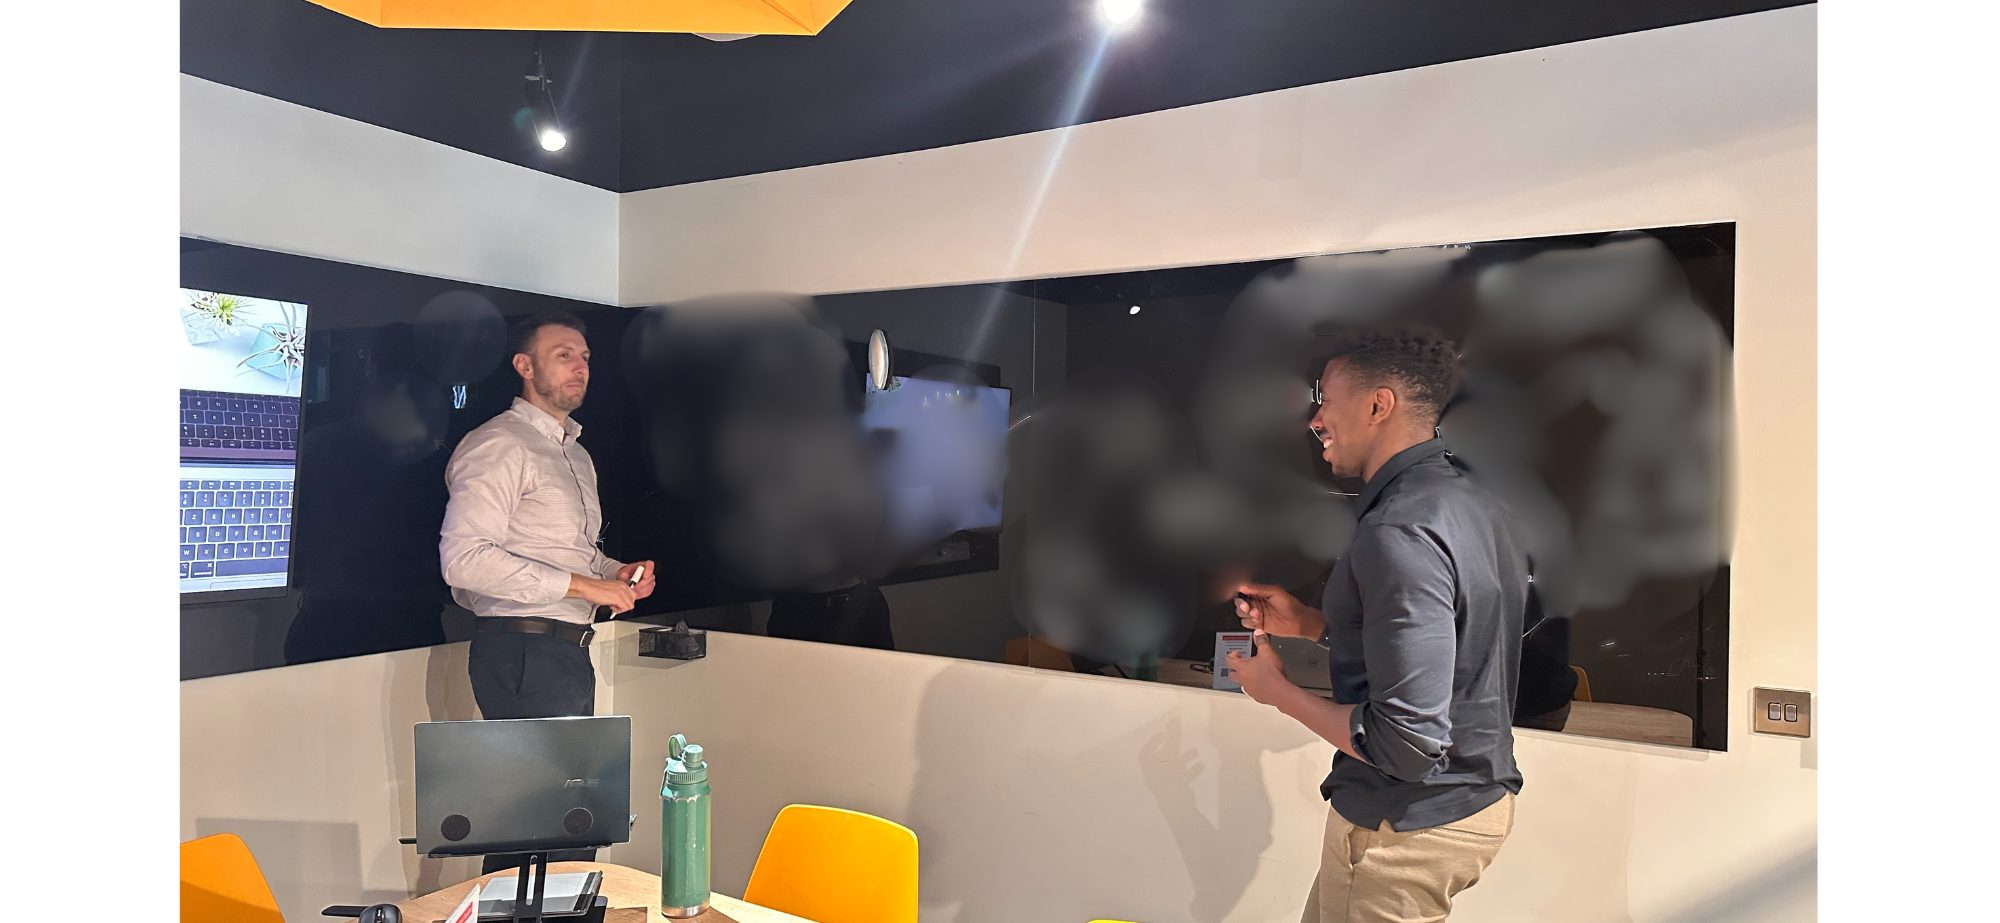
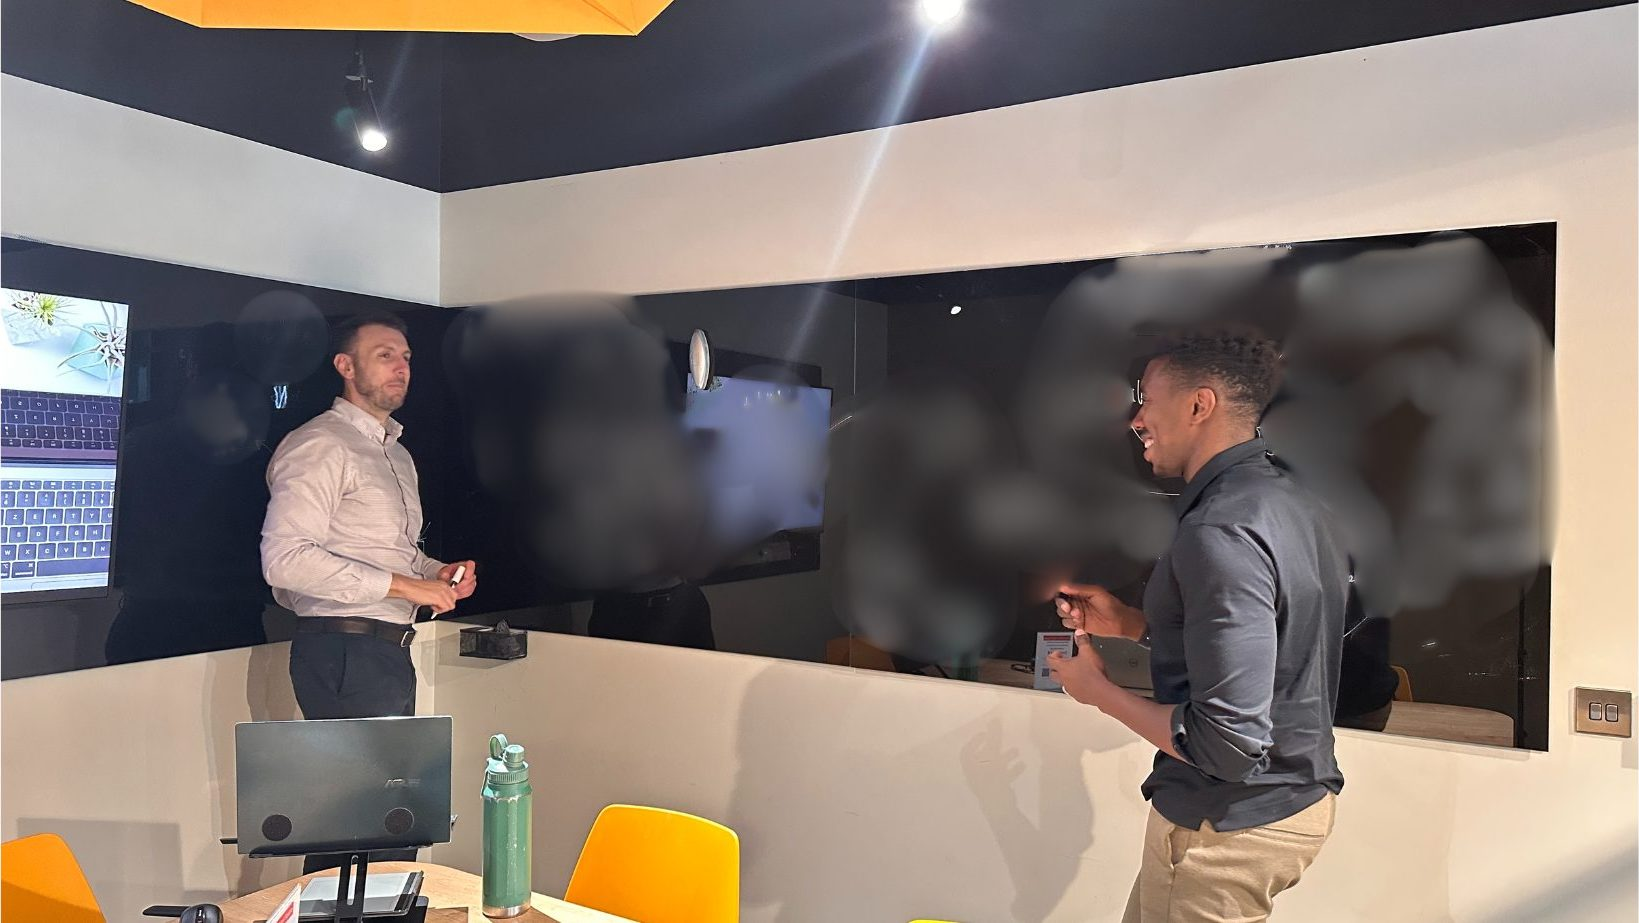
Crop white pillar-borders off new photos and revert containers to 16:9
img-1985…1989 arrived as 2000x923 files that were actually 16:9 photos
padded with ~180px of white pillarboxing left and right. Detect and
crop the white per-image (sampling 5 vertical lines for robustness),
re-encode at q82. Output sizes 1639-1642x923, within 0.12% of 16:9.

Revert the .scene-split .split-image containers on about, going-further,
buildstrong, teamstrong and the in-practice .scene-hero .hero-image
(desktop + mobile) from 2000/923 back to 16/9 to match.

teamstrong's .scene-feature-hero .feature-image (still img-1981, the
genuine 2.17:1 shot) keeps its 2000/923 ratio — unaffected.

diff --git a/in-practice.html b/in-practice.html
@@ -105,11 +105,11 @@
   }
   .image-placeholder::before { content: 'Image: '; opacity: 0.6; margin-right: 0.4em; }
 
-  /* ══ Hero — img-1988.jpg native 2000x923 (landscape) ══ */
+  /* ══ Hero — img-1988.jpg native 16:9 (landscape) ══ */
   .scene-hero { padding: 7vh 0 0; flex-direction: column; min-height: auto; }
   .scene-hero .hero-image {
     position: relative; width: 100%;
-    aspect-ratio: 2000/923; max-height: 80vh;
+    aspect-ratio: 16/9; max-height: 80vh;
     overflow: hidden; background: var(--bg-3);
   }
   .scene-hero .hero-image img { width: 100%; height: 100%; object-fit: cover; }
@@ -360,7 +360,7 @@
     nav.top .has-dropdown > a::after { display: none; }
     nav.top .dropdown { display: none; }
 
-    .scene-hero .hero-image { aspect-ratio: 2000/923; max-height: 50vh; }
+    .scene-hero .hero-image { aspect-ratio: 16/9; max-height: 50vh; }
 
     .people-grid { grid-template-columns: 1fr; }
 

diff --git a/site/in-practice.html b/site/in-practice.html
@@ -105,11 +105,11 @@
   }
   .image-placeholder::before { content: 'Image: '; opacity: 0.6; margin-right: 0.4em; }
 
-  /* ══ Hero — img-1988.jpg native 2000x923 (landscape) ══ */
+  /* ══ Hero — img-1988.jpg native 16:9 (landscape) ══ */
   .scene-hero { padding: 7vh 0 0; flex-direction: column; min-height: auto; }
   .scene-hero .hero-image {
     position: relative; width: 100%;
-    aspect-ratio: 2000/923; max-height: 80vh;
+    aspect-ratio: 16/9; max-height: 80vh;
     overflow: hidden; background: var(--bg-3);
   }
   .scene-hero .hero-image img { width: 100%; height: 100%; object-fit: cover; }
@@ -360,7 +360,7 @@
     nav.top .has-dropdown > a::after { display: none; }
     nav.top .dropdown { display: none; }
 
-    .scene-hero .hero-image { aspect-ratio: 2000/923; max-height: 50vh; }
+    .scene-hero .hero-image { aspect-ratio: 16/9; max-height: 50vh; }
 
     .people-grid { grid-template-columns: 1fr; }
 

diff --git a/buildstrong.html b/buildstrong.html
@@ -182,9 +182,9 @@
   }
   .scene-split .split-text .body p { margin-bottom: 1.2rem; }
   .scene-split .split-text .body em { color: var(--cognac); font-style: italic; font-weight: 400; }
-  /* img-1989.jpg native 2000x923 (landscape) */
+  /* img-1989.jpg native 16:9 (landscape) */
   .scene-split .split-image {
-    width: 100%; aspect-ratio: 2000/923;
+    width: 100%; aspect-ratio: 16/9;
     background: var(--bg-3); position: relative; overflow: hidden;
   }
   .scene-split .split-image img {

diff --git a/site/buildstrong.html b/site/buildstrong.html
@@ -182,9 +182,9 @@
   }
   .scene-split .split-text .body p { margin-bottom: 1.2rem; }
   .scene-split .split-text .body em { color: var(--cognac); font-style: italic; font-weight: 400; }
-  /* img-1989.jpg native 2000x923 (landscape) */
+  /* img-1989.jpg native 16:9 (landscape) */
   .scene-split .split-image {
-    width: 100%; aspect-ratio: 2000/923;
+    width: 100%; aspect-ratio: 16/9;
     background: var(--bg-3); position: relative; overflow: hidden;
   }
   .scene-split .split-image img {

diff --git a/about.html b/about.html
@@ -154,9 +154,9 @@
     gap: 5vw; align-items: center;
   }
   .scene-split.image-narrow .split-grid { grid-template-columns: 2fr 3fr; }
-  /* Scene 01 — img-1985.jpg (landscape 2000:923) */
+  /* Scene 01 — img-1985.jpg (landscape 16:9) */
   .scene-split .split-image {
-    width: 100%; aspect-ratio: 2000/923;
+    width: 100%; aspect-ratio: 16/9;
     background: var(--bg-3); position: relative; overflow: hidden;
   }
   /* Scene 06 — drill.mp4 inset (portrait 9:16) */

diff --git a/site/about.html b/site/about.html
@@ -154,9 +154,9 @@
     gap: 5vw; align-items: center;
   }
   .scene-split.image-narrow .split-grid { grid-template-columns: 2fr 3fr; }
-  /* Scene 01 — img-1985.jpg (landscape 2000:923) */
+  /* Scene 01 — img-1985.jpg (landscape 16:9) */
   .scene-split .split-image {
-    width: 100%; aspect-ratio: 2000/923;
+    width: 100%; aspect-ratio: 16/9;
     background: var(--bg-3); position: relative; overflow: hidden;
   }
   /* Scene 06 — drill.mp4 inset (portrait 9:16) */

diff --git a/going-further.html b/going-further.html
@@ -181,9 +181,9 @@
     border-top: 1px solid var(--line);
     font-size: 1.3rem; color: var(--bone); font-style: italic;
   }
-  /* img-1986.jpg native 2000x923 (landscape) */
+  /* img-1986.jpg native 16:9 (landscape) */
   .scene-split .split-image {
-    width: 100%; aspect-ratio: 2000/923;
+    width: 100%; aspect-ratio: 16/9;
     background: var(--bg-3); position: relative; overflow: hidden;
   }
   .scene-split .split-image img {

diff --git a/site/going-further.html b/site/going-further.html
@@ -181,9 +181,9 @@
     border-top: 1px solid var(--line);
     font-size: 1.3rem; color: var(--bone); font-style: italic;
   }
-  /* img-1986.jpg native 2000x923 (landscape) */
+  /* img-1986.jpg native 16:9 (landscape) */
   .scene-split .split-image {
-    width: 100%; aspect-ratio: 2000/923;
+    width: 100%; aspect-ratio: 16/9;
     background: var(--bg-3); position: relative; overflow: hidden;
   }
   .scene-split .split-image img {

diff --git a/site/teamstrong.html b/site/teamstrong.html
@@ -190,9 +190,9 @@
     border-top: 1px solid var(--line);
     font-size: 1.3rem; color: var(--bone); font-style: italic;
   }
-  /* img-1981.jpg native 2000x923 (2.17:1) */
+  /* img-1987.jpg native 16:9 (landscape) */
   .scene-split .split-image {
-    width: 100%; aspect-ratio: 2000/923;
+    width: 100%; aspect-ratio: 16/9;
     background: var(--bg-3); position: relative; overflow: hidden;
   }
   .scene-split .split-image img {

diff --git a/teamstrong.html b/teamstrong.html
@@ -190,9 +190,9 @@
     border-top: 1px solid var(--line);
     font-size: 1.3rem; color: var(--bone); font-style: italic;
   }
-  /* img-1981.jpg native 2000x923 (2.17:1) */
+  /* img-1987.jpg native 16:9 (landscape) */
   .scene-split .split-image {
-    width: 100%; aspect-ratio: 2000/923;
+    width: 100%; aspect-ratio: 16/9;
     background: var(--bg-3); position: relative; overflow: hidden;
   }
   .scene-split .split-image img {
